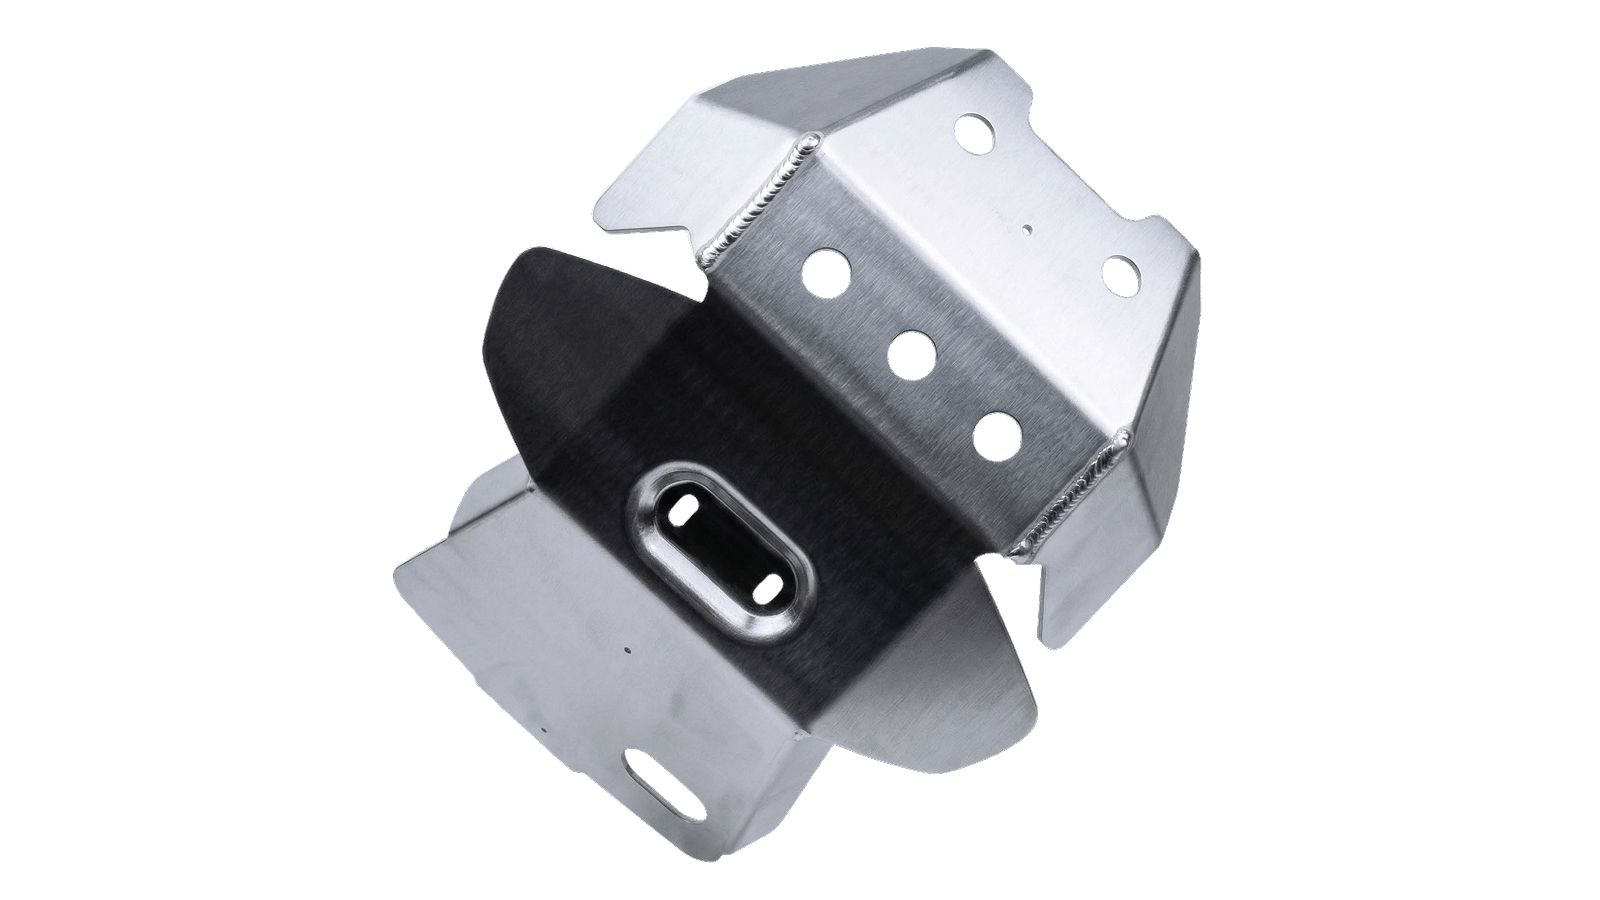
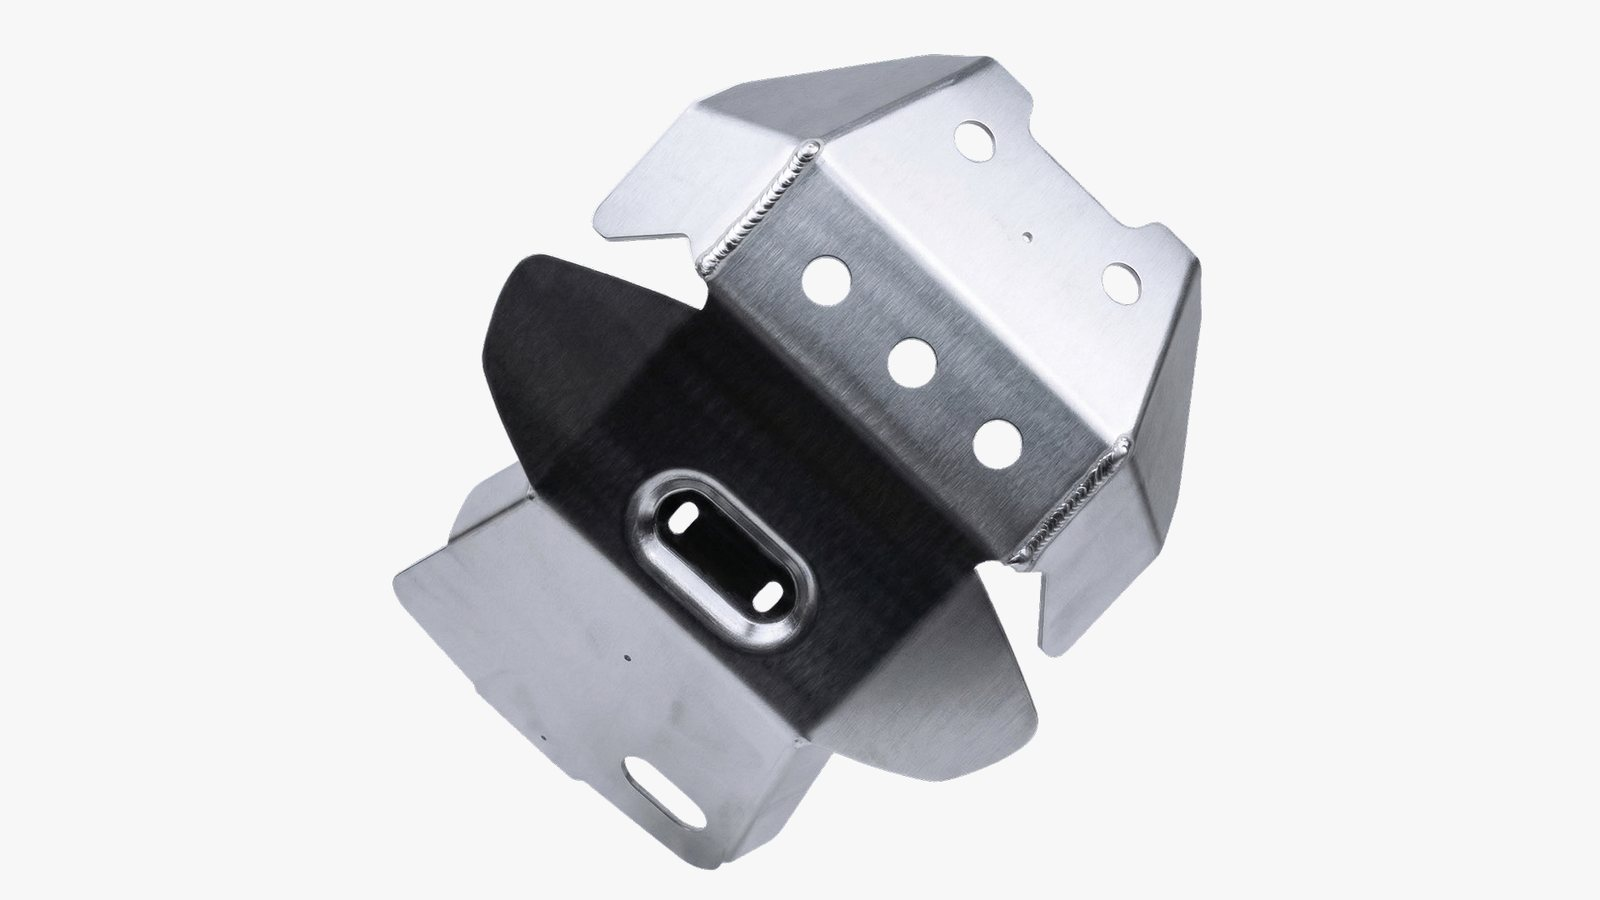
Portada de la home con la foto principal actualizada del cubrecárter
Claude-Session: https://claude.ai/code/session_01638GQR5QWwYxM8MmgUFgoU

diff --git a/proyectos/cubrecarter.html b/proyectos/cubrecarter.html
@@ -47,7 +47,7 @@
   </div>
 
   <figure class="cs-hero">
-    <img src="../assets/img/cubrecarter/principal.jpg" alt="Render del cubrecárter de aluminio con su rebaje estampado" width="1600" height="900" style="border-radius: 4px">
+    <img src="../assets/img/cubrecarter/principal.jpg" alt="Cubrecárter de aluminio con su rebaje estampado" width="1600" height="900" style="border-radius: 4px">
   </figure>
 
   <section class="cs-intro">

diff --git a/index.html b/index.html
@@ -57,7 +57,7 @@
     </div>
   </div>
   <div class="hero__media">
-    <img src="assets/img/portada.jpg" alt="Piezas mecanizadas sobre planos y bocetos en el escritorio, con calibre y lápiz" width="1051" height="1400">
+    <img src="assets/img/cubrecarter/principal.jpg" alt="Cubrecárter de aluminio plegado y estampado para Kawasaki KLX 300" width="1600" height="900">
   </div>
 </section>
 
